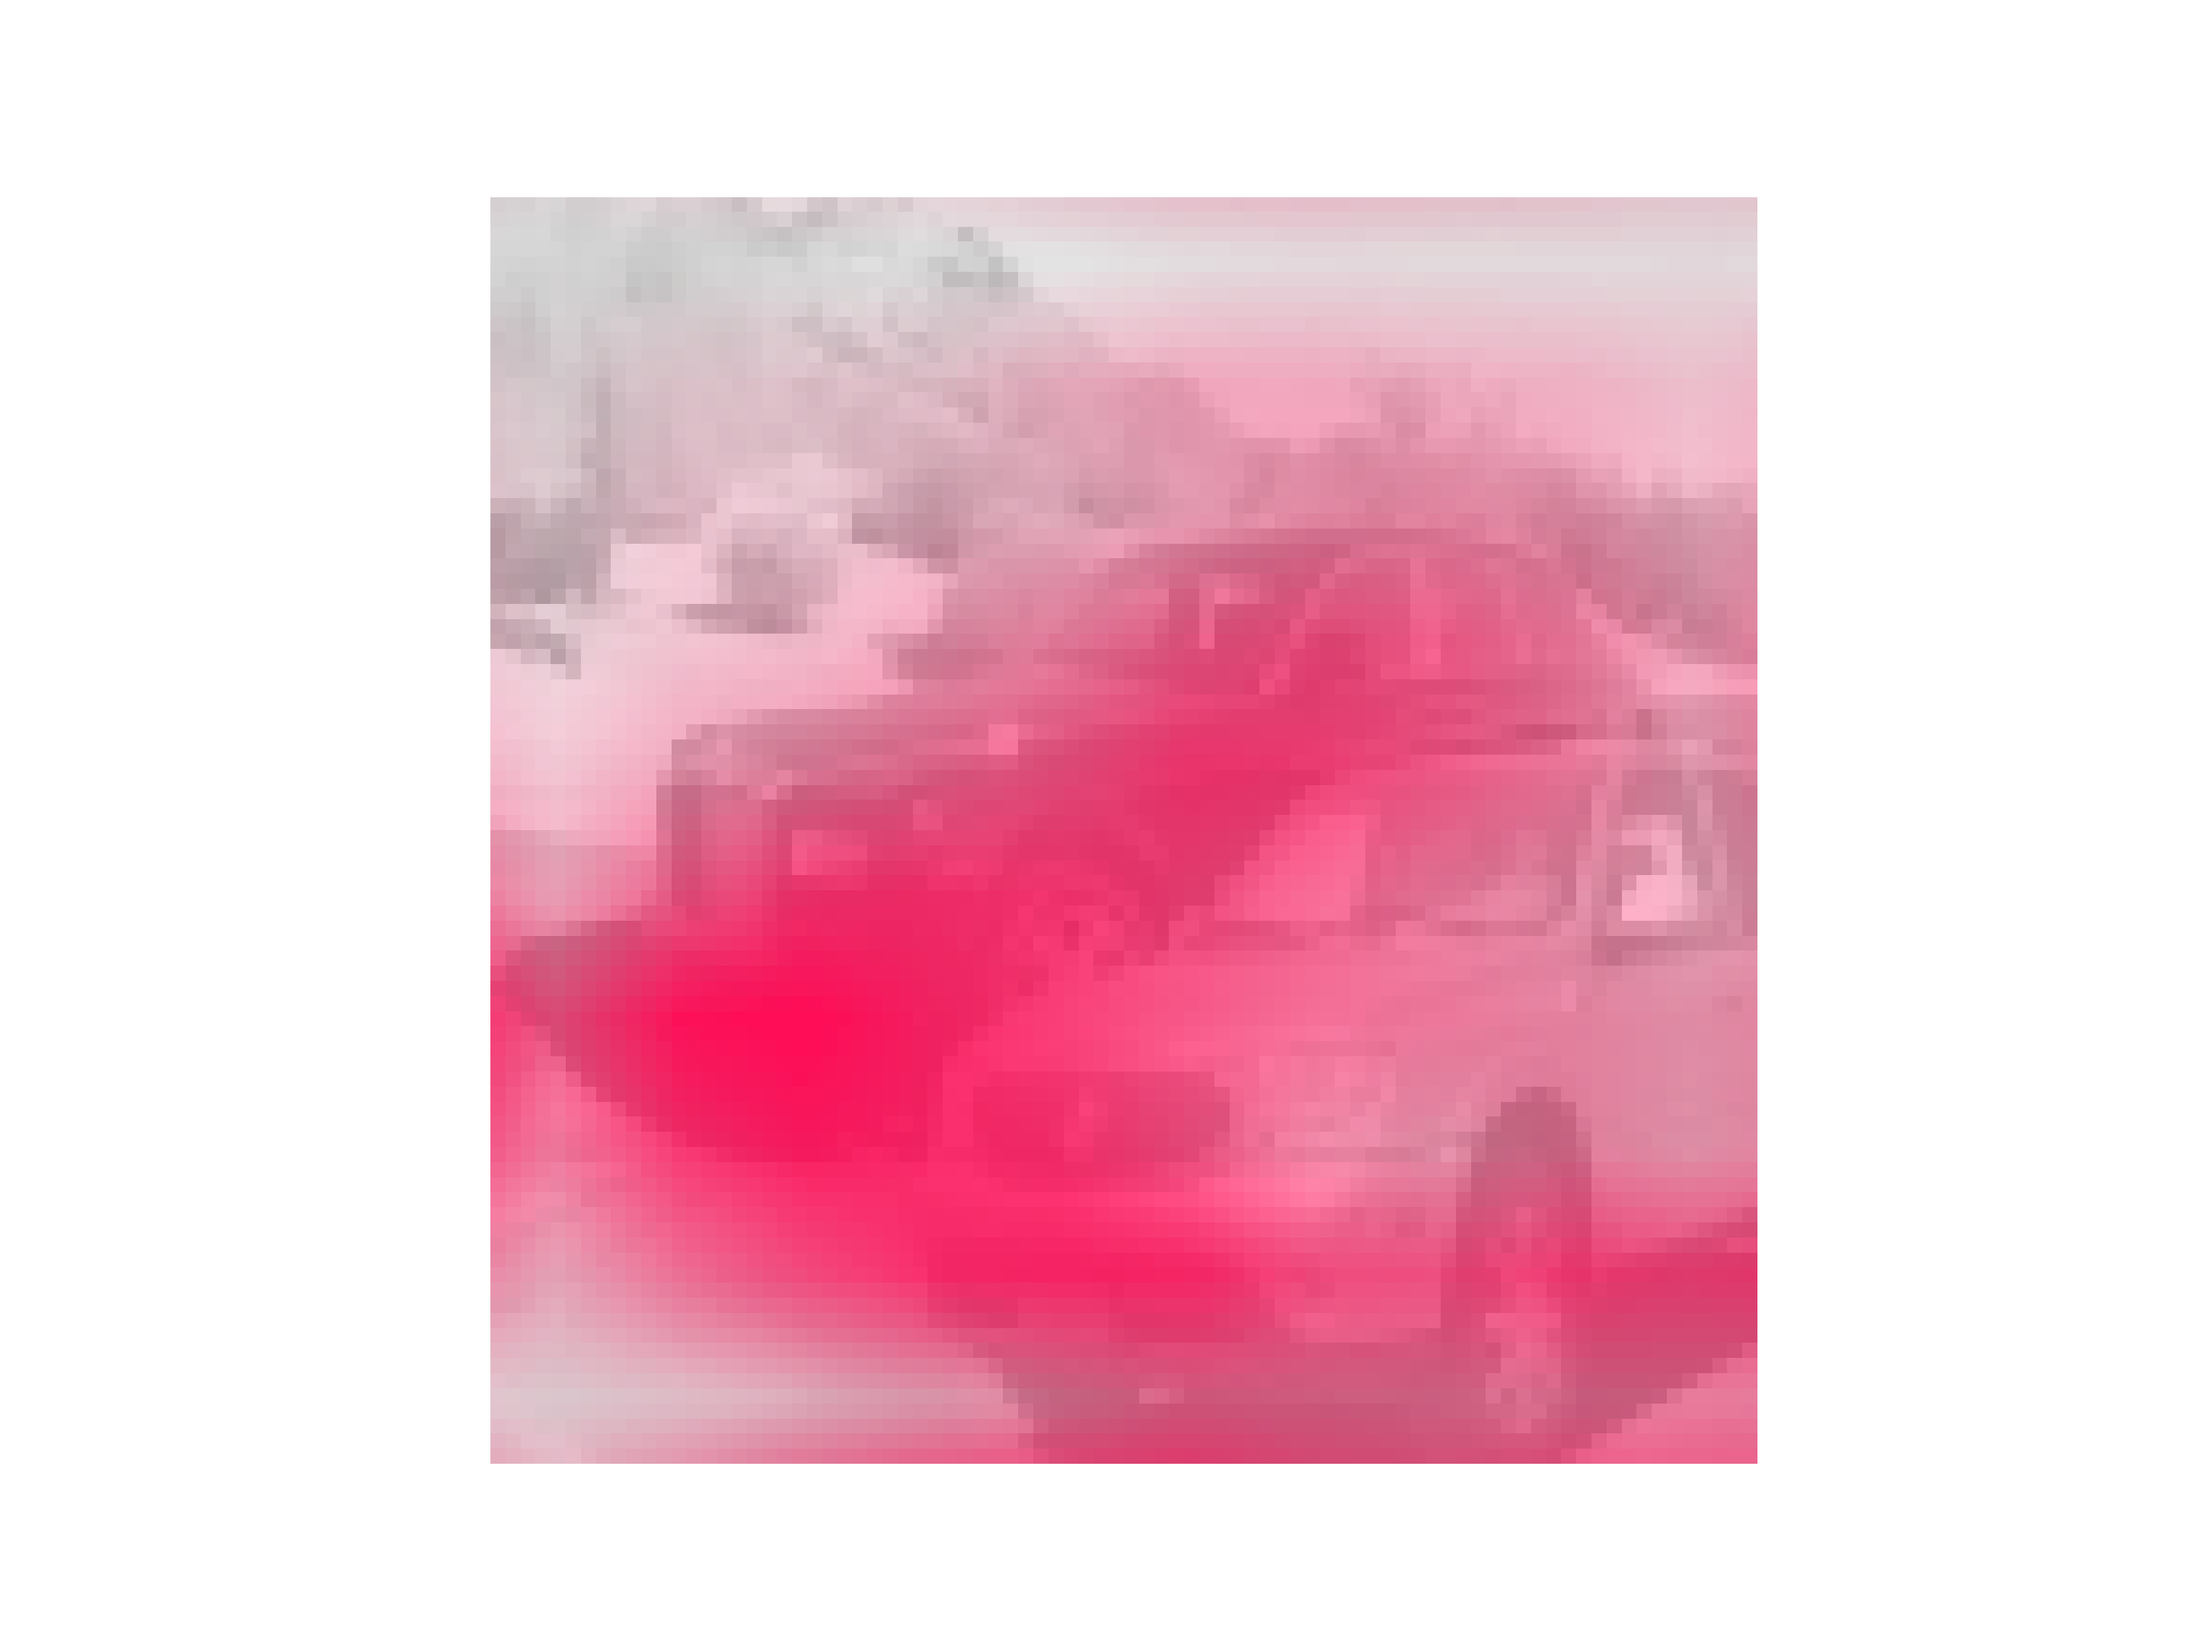
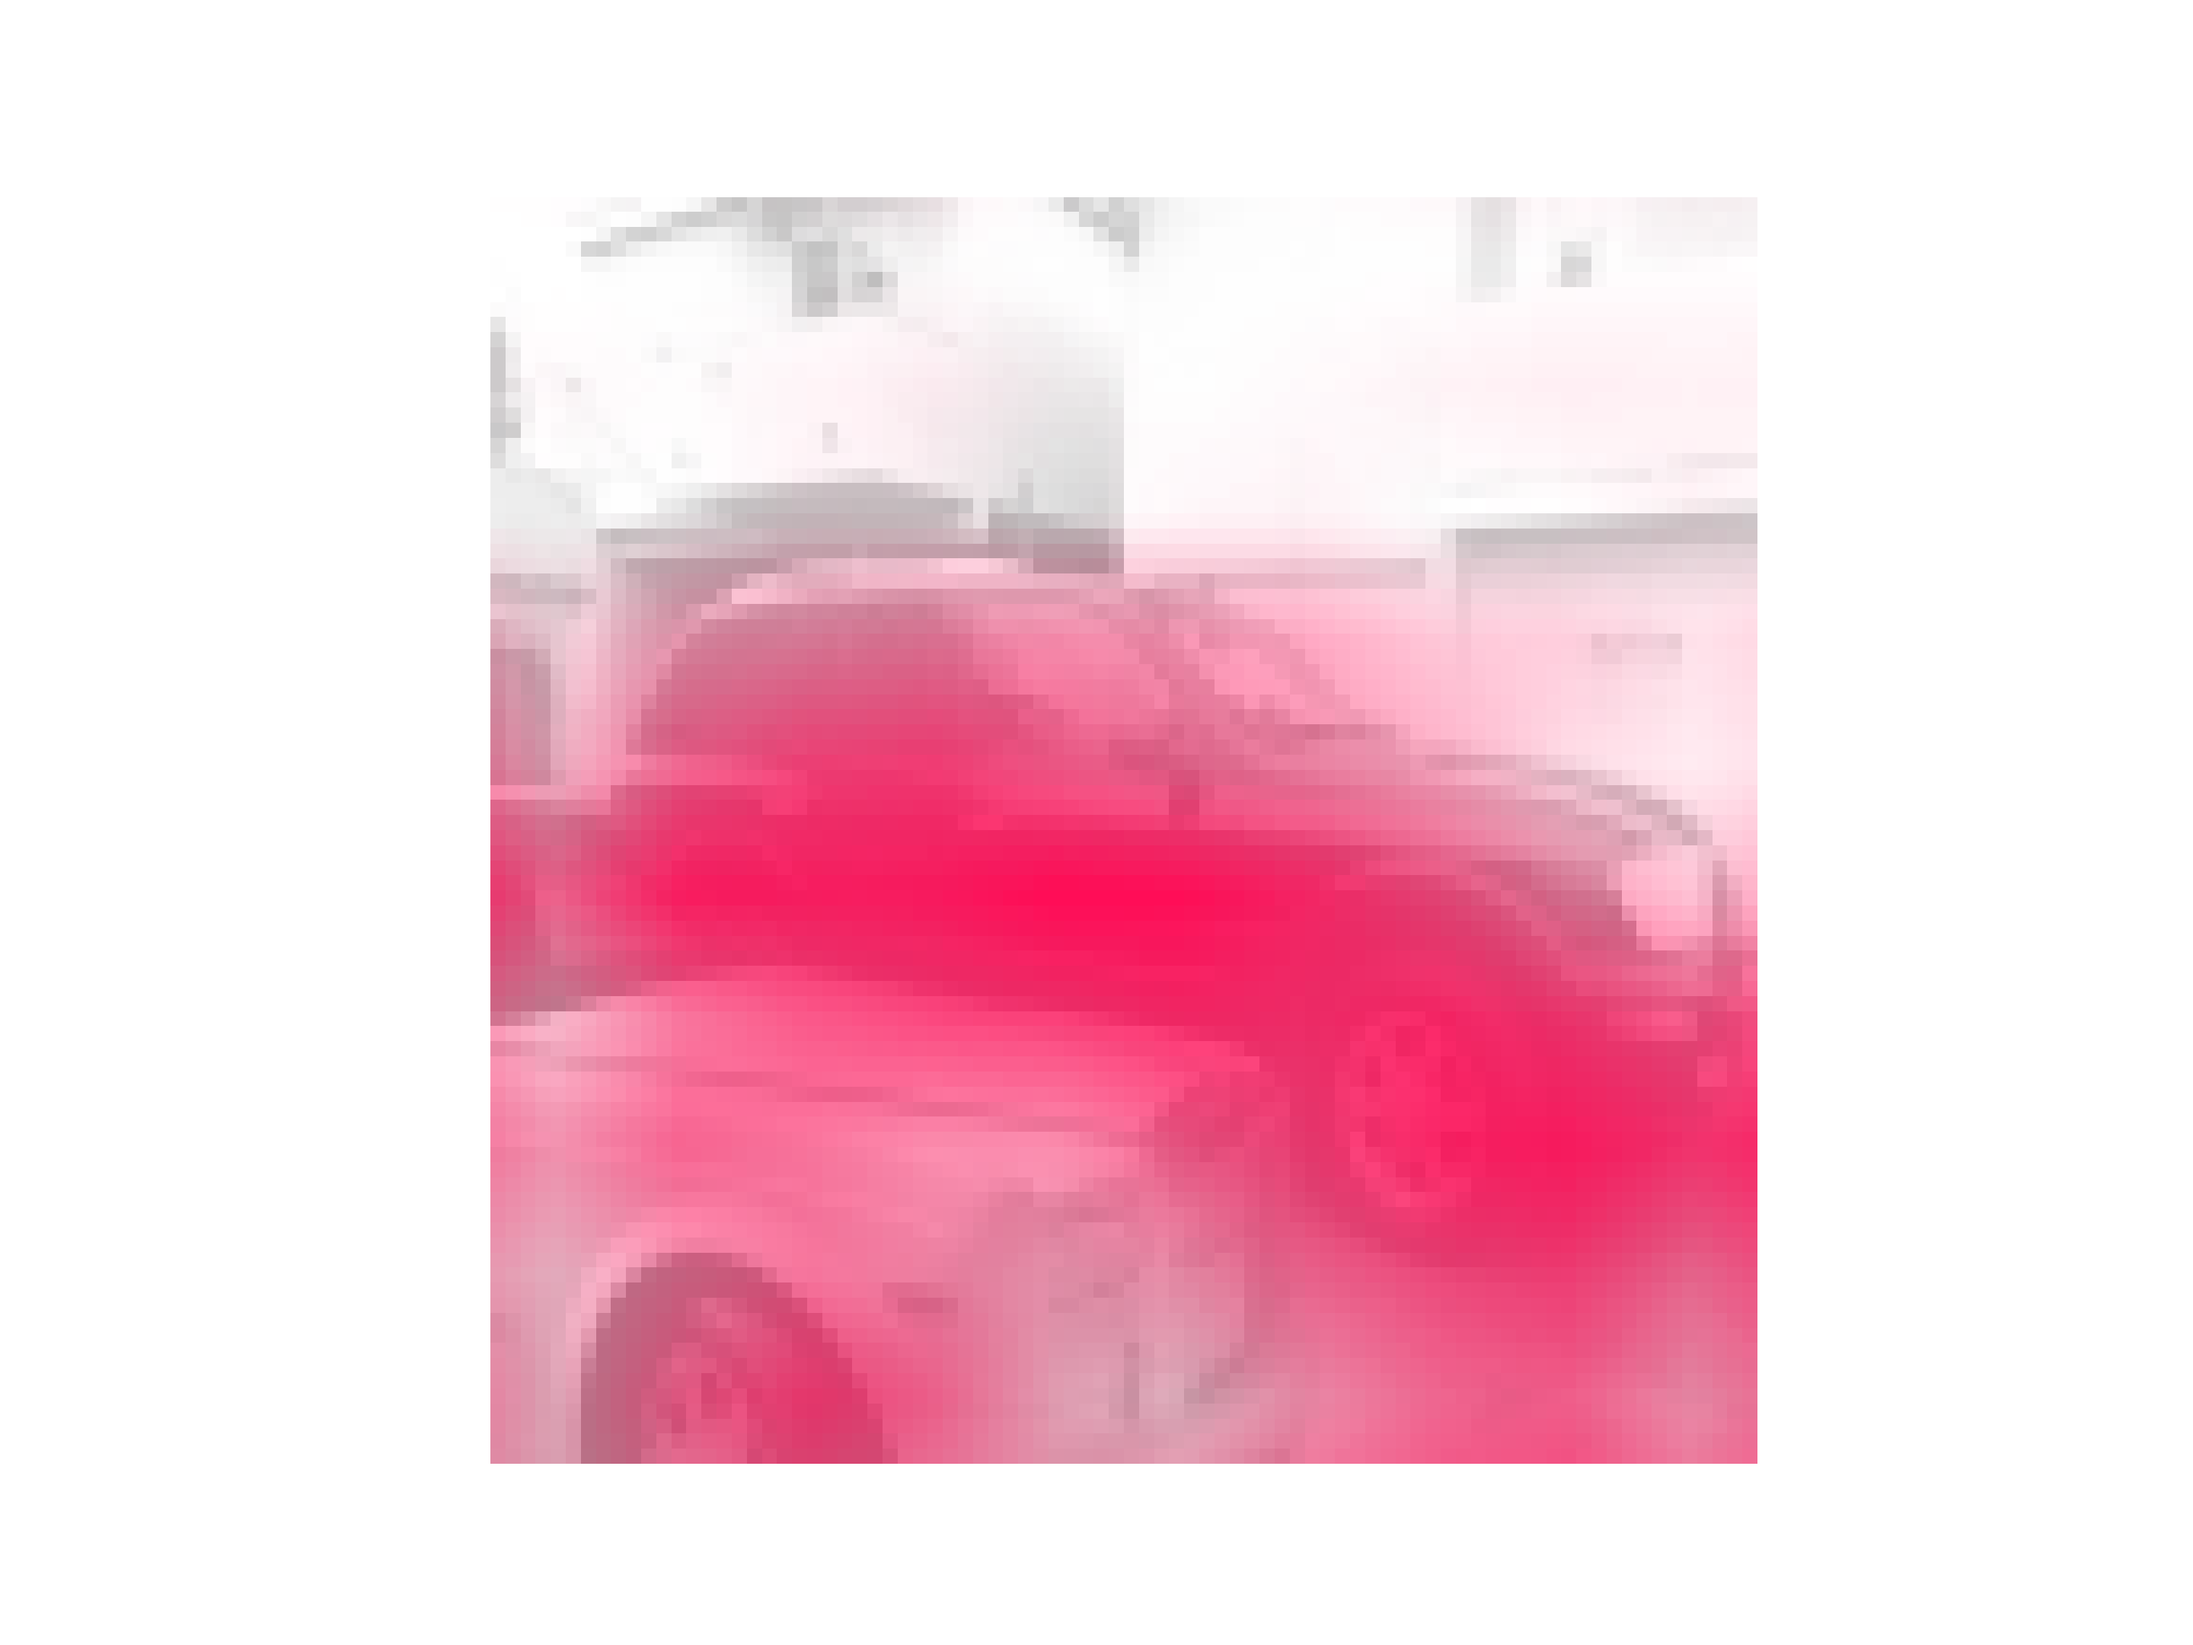
LAST_NIGHT.

diff --git a/testbed/miniImagenet_dogs_cars_birds.py b/testbed/miniImagenet_dogs_cars_birds.py
@@ -112,7 +112,7 @@ if __name__ == '__main__':
 
     ### This few-shot XAI framwork need you to specify shot number.
     shot = 1
-    dataset_str = 'cars'
+    dataset_str = 'birds'
     ### In our experiments, we only focus on Conv64F and ResNet12 backbone.
     input_model_str = 'Conv64F'
     # input_model_str = 'ResNet12'
@@ -190,18 +190,18 @@ if __name__ == '__main__':
             'target5_label': '23',
         },
         'birds': {
-            'query_filename': '../data/',
+            'query_filename': '../data/pied_kingfisher_and_savannah_sparrow.pkl',
             'support_filename': '../data/birds_train_data.npy',
-            'target1_name': 'french_bulldog',
-            'target2_name': 'tank',
-            # 'target3_name': 'french_bulldog',
-            # 'target4_name': 'tank',
-            # 'target5_name': 'french_bulldog',
-            'target1_label': 'n02108915',
-            'target2_label': 'n04389033',
-            'target3_label': 'n01532829',
-            'target4_label': 'n01910747',
-            'target5_label': 'n02113712',
+            'target1_name': 'pied_kingfisher',
+            'target2_name': 'savannah_sparrow',
+            'target3_name': 'tropical_kingbird',
+            'target4_name': 'white_breasted_nuthatch',
+            'target5_name': 'pine_grosbeak',
+            'target1_label': '081.Pied_Kingfisher',
+            'target2_label': '127.Savannah_Sparrow',
+            'target3_label': '077.Tropical_Kingbird',
+            'target4_label': '094.White_breasted_Nuthatch',
+            'target5_label': '056.Pine_Grosbeak',
         }
     }
     if dataset_str in dataset_map:

diff --git a/utils/create_pickle.py b/utils/create_pickle.py
@@ -3,8 +3,8 @@ import numpy as np
 from PIL import Image  
 
 # Open the PNG image
-img = Image.open('/mnt/f/Desktop/Josie_intepretable/cars/query_real.png')
-
+# img = Image.open('/mnt/f/Desktop/Josie_intepretable/cars/query_real.png')
+img = Image.open('/mnt/f/Desktop/Josie_intepretable/birds/query_real.png')
 # Convert the image to RGB mode (removing the alpha channel)
 img = img.convert('RGB')
 
@@ -16,11 +16,13 @@ img_array = np.array(img, dtype=np.float64)
 
 # Create a dictionary
 data_dict = {
-    'rolls_and_buick': img_array
+    # 'rolls_and_buick': img_array
+    'pied_kingfisher_and_savannah_sparrow': img_array
 }
 
 # Save the dictionary as a Pickle file
-with open('../data/rolls_and_buick.pkl', 'wb') as f:
+# with open('../data/rolls_and_buick.pkl', 'wb') as f:
+with open('../data/pied_kingfisher_and_savannah_sparrow.pkl', 'wb') as f:
     pickle.dump(data_dict, f)
 
 print("Pickle file has been successfully saved.")

diff --git a/architectures/protoshotxai.py b/architectures/protoshotxai.py
@@ -76,7 +76,7 @@ class ProtoShotXAI:
 
         return score
 
-    def image_feature_attribution(self,support_data,query, ref_pixel, pad=4 , progress_bar=True):
+    def image_feature_attribution(self,support_data,query, ref_pixel, pad=2 , progress_bar=True):
         rows = np.shape(query)[1]
         cols = np.shape(query)[2]
         chnls = np.shape(query)[3]
@@ -146,7 +146,7 @@ class ProtoShotXAI:
 
     def image_feature_attribution_contra(self, support_data_1, support_data_2,
                                          # support_data_3,
-                                         query, class_indx, ref_pixel, pad=2, alpha=0.5, progress_bar=True):
+                                         query, class_indx, ref_pixel, pad=4, alpha=0.5, progress_bar=True):
         rows = np.shape(query)[1]
         cols = np.shape(query)[2]
         chnls = np.shape(query)[3]
